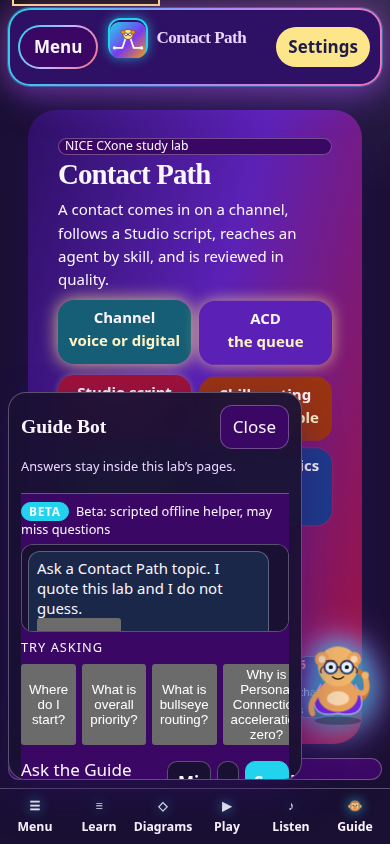
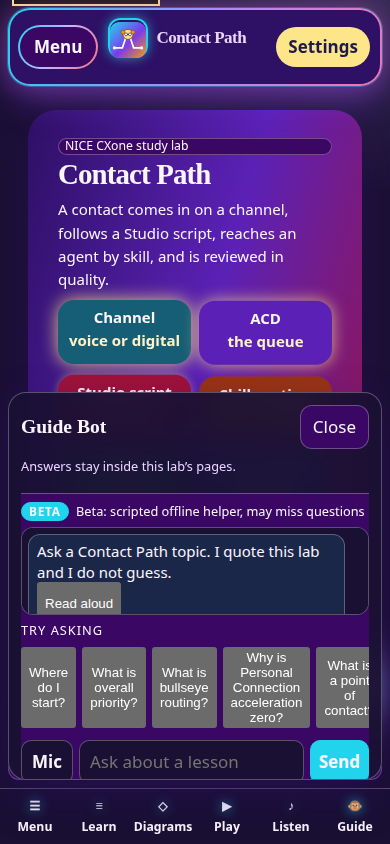
Let the phone chat field fill the sheet and keep Send on screen.
The label was a flex item, so the input collapsed to a sliver and Send clipped at 390px. The sheet now spans the phone width, the field stays at least 200px, and Playwright checks both 390x844 and 390x430.

Changed region(s): [[0.0308, 0.4621, 0.9846, 0.9242]]

diff --git a/tests/lab.spec.js b/tests/lab.spec.js
@@ -24,6 +24,27 @@ async function openGuide(page) {
   await page.locator("#mascot-dock").click();
 }
 
+async function expectChatRow(page) {
+  const input = page.locator("#py-chat-input");
+  const send = page.locator(".py-chat-form button[type=submit]");
+  await expect(input).toBeVisible();
+  await expect(send).toBeVisible();
+  const box = await input.boundingBox();
+  expect(box.width).toBeGreaterThanOrEqual(180);
+  const inside = await send.evaluate((el) => {
+    const rect = el.getBoundingClientRect();
+    const fully = rect.left >= -0.5
+      && rect.top >= -0.5
+      && rect.right <= window.innerWidth + 0.5
+      && rect.bottom <= window.innerHeight + 0.5
+      && rect.width >= 8
+      && rect.height >= 8;
+    const hit = document.elementFromPoint(rect.left + rect.width / 2, rect.top + rect.height / 2);
+    return fully && (hit === el || el.contains(hit));
+  });
+  expect(inside).toBe(true);
+}
+
 test("home, guide, and a lesson at desktop", async ({ page }) => {
   await page.setViewportSize({ width: 1440, height: 900 });
   await page.goto("/campus/");
@@ -47,7 +68,7 @@ test("home, guide, and a lesson at 390", async ({ page }) => {
   await dismissTour(page);
   await shot(page, "wave-phone-home");
   await openGuide(page);
-  await expect(page.locator("#py-chat-input")).toBeVisible();
+  await expectChatRow(page);
   await shot(page, "wave-phone-bot");
   await page.goto("/campus/#/lesson/routing/priority-math");
   await expect(page.locator("h1")).toBeVisible();
@@ -59,17 +80,7 @@ test("guide input and send are on screen at 390x430", async ({ page }) => {
   await page.goto("/campus/");
   await dismissTour(page);
   await openGuide(page);
-  const input = page.locator("#py-chat-input");
-  const send = page.locator(".py-chat-form button[type=submit]");
-  await expect(input).toBeVisible();
-  await expect(send).toBeVisible();
-  const uncovered = await send.evaluate((el) => {
-    const rect = el.getBoundingClientRect();
-    if (rect.top < 0 || rect.bottom > window.innerHeight || rect.width < 8) return false;
-    const hit = document.elementFromPoint(rect.left + rect.width / 2, rect.top + rect.height / 2);
-    return hit === el || el.contains(hit);
-  });
-  expect(uncovered).toBe(true);
+  await expectChatRow(page);
 });
 
 test("call-flow sandbox is labeled a simulation", async ({ page }) => {

diff --git a/campus/shared/cxbot-chat/chat.css b/campus/shared/cxbot-chat/chat.css
@@ -54,10 +54,11 @@
 .py-msg-code { margin: 6px 0 0; padding: 6px; overflow: auto; border-radius: 8px; background: var(--code-bg, var(--bg)); font-size: 0.75rem; }
 .py-chat-try { margin: 0; font-size: 0.75rem; text-transform: uppercase; letter-spacing: 0.08em; color: var(--muted); }
 .py-chat-examples, .py-chat-chips { display: flex; gap: 6px; overflow-x: auto; }
-.py-chat-form { display: flex; gap: 6px; align-items: center; }
+.py-chat-form { display: flex; gap: 6px; align-items: center; width: 100%; min-width: 0; max-width: 100%; }
 .py-chat-form input {
-  flex: 1;
+  flex: 1 1 auto;
   min-width: 0;
+  width: 100%;
   min-height: 44px;
   padding: 6px 10px;
   border-radius: 10px;
@@ -78,6 +79,7 @@
   font-weight: 700;
   cursor: pointer;
 }
+.py-chat-form button[type="submit"], .py-mic { flex: 0 0 auto; }
 .py-chat-form button[type="submit"] { background: var(--accent); color: var(--btn-ink); border-color: var(--accent); }
 .py-chat-form button:focus-visible, .py-mic:focus-visible, #py-chat-input:focus-visible, .py-read:focus-visible {
   outline: 2px solid var(--accent);
@@ -85,6 +87,16 @@
 }
 @media (min-width: 900px) {
   .py-chat-log { max-height: 168px; }
+}
+@media (max-width: 720px) {
+  .guide-chat-host,
+  .py-chat,
+  .py-chat-form { width: 100%; min-width: 0; max-width: 100%; }
+  .py-chat-form input {
+    flex: 1 1 0;
+    min-width: 200px;
+    width: auto;
+  }
 }
 @media (max-width: 420px) {
   .py-chat-log { max-height: 88px; }

diff --git a/campus/assets/phone.css b/campus/assets/phone.css
@@ -150,13 +150,16 @@ html[data-motion="full"] .reveal.is-in {
   main { padding-bottom: calc(var(--bottom-h) + 28px); }
   .lab-foot { margin-bottom: calc(var(--bottom-h) + 12px); }
   .mascot-dock { bottom: calc(var(--bottom-h) + 8px); }
-  .dock-stack {
+  body .dock-stack {
     left: 8px;
+    right: 8px;
     bottom: calc(var(--bottom-h) + 8px);
     z-index: 32;
-    width: min(340px, calc(100vw - 96px));
+    width: auto;
+    max-width: none;
+    min-width: 0;
   }
-  .guide-panel { max-height: 46vh; }
+  .guide-panel { max-height: 46vh; width: 100%; min-width: 0; box-sizing: border-box; }
   .audio-dock { display: none; }
   .audio-dock.is-open {
     display: block;
@@ -239,7 +242,7 @@ html[data-motion="full"] .reveal.is-in {
     max-height: 64px;
     overflow: auto;
   }
-  .guide-panel .py-chat-form { flex: 0 0 auto; }
+  .guide-panel .py-chat-form { flex: 0 0 auto; width: 100%; min-width: 0; }
 }
 
 @media (max-width: 1100px) and (min-width: 721px) {

diff --git a/campus/shared/cxbot-chat/ui.js b/campus/shared/cxbot-chat/ui.js
@@ -19,7 +19,7 @@ export function chatMarkup(examples) {
     <div class="py-chat-examples">${chips}</div>
     <div class="py-chat-chips" role="group" aria-label="Suggestion"></div>
     <form class="py-chat-form">
-      <label class="visually-hidden" for="py-chat-input">Ask the Guide about this lab</label>
+      <label class="sr" for="py-chat-input">Ask the Guide about this lab</label>
       <button type="button" class="py-mic" data-py-mic aria-label="Voice input">Mic</button>
       <input id="py-chat-input" type="text" name="q" autocomplete="off" enterkeyhint="send" maxlength="400" placeholder="Ask about a lesson" spellcheck="true">
       <button type="submit">Send</button>

diff --git a/campus/sw.js b/campus/sw.js
@@ -1,4 +1,4 @@
-const CACHE = "cxone-lab-v13";
+const CACHE = "cxone-lab-v14";
 const SHELL = [
   "./",
   "./index.html",
